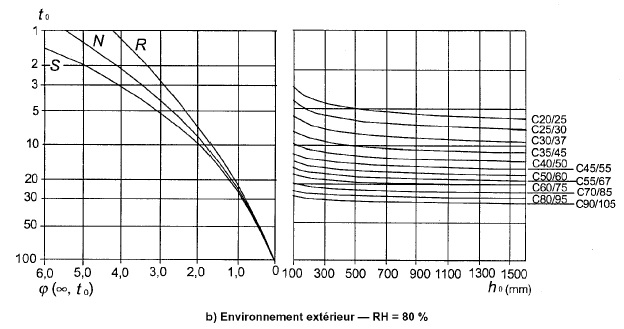
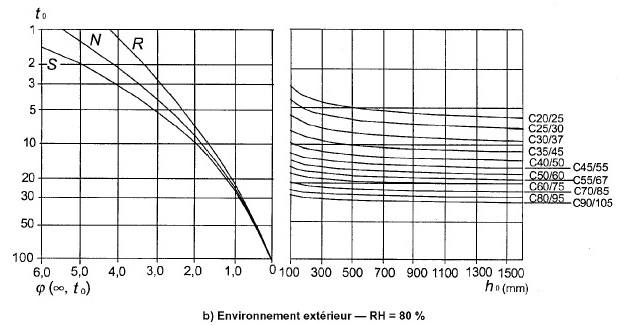
fix fluage tool bugs

diff --git a/src/app/fluage-tool-fluage-coeff/fluage-tool-fluage-coeff.component.ts b/src/app/fluage-tool-fluage-coeff/fluage-tool-fluage-coeff.component.ts
@@ -27,6 +27,7 @@ export class FluageToolFluageCoeffComponent implements OnInit, AfterViewInit {
   h0Positions!: number[];
   isMouseDown!: boolean;
   containerLeftPosition!: number;
+  cementLineLeft!: number;
   cementLineRotation!: number;
   cementLineLength!: number;
   concreteIndicatorPositions!: any;
@@ -48,37 +49,57 @@ export class FluageToolFluageCoeffComponent implements OnInit, AfterViewInit {
   ngOnInit(): void {
     this.projectName = this.fluageService.projectName;
     this.step = 0;
-    this.stepNames = ['Age de mise en charge','Classe de ciment','Rayon de ','Classe de béton','Coefficient de fluage'];
+    this.stepNames = ['Age de mise en charge','Classe de ciment','Rayon moyen','Classe de béton','Coefficient de fluage'];
     this.humidity = this.fluageService.properties.humidity;
     this.loadTime = this.fluageService.properties.loadTime;
     this.concreteClass = this.fluageService.properties.concreteClass;
     this.cementClass = this.fluageService.properties.cementClass;
-    this.loadTimePositions = [23,59,80,105,140,176,196,222,255];
+    if(this.humidity === 'inside') {
+      this.loadTimePositions = [23,59,80,105,140,176,196,222,255];
+      this.cementLineLeft = 265;
+      this.h0Positions = [295,328,363,397,432,467,502,537];
+      this.concreteIndicatorPositions = {
+        '20': [102,45],
+        '25': [115,45],
+        '30': [127,45],
+        '35': [139,45],
+        '40': [149,45],
+        '45': [158,45],
+        '50': [167,45],
+        '55': [171,5],
+        '60': [178,45],
+        '70': [184,5],
+        '80': [191,45],
+        '90': [196,5]
+      };
+    } else {
+      this.loadTimePositions = [28,63,83,109,142,177,196,224,257];
+      this.cementLineLeft = 269;
+      this.h0Positions = [290,320,350,381,412,442,474,505];
+      this.concreteIndicatorPositions = {
+        '20': [110,54],
+        '25': [121,54],
+        '30': [132,54],
+        '35': [144,54],
+        '40': [155,45],
+        '45': [160,9],
+        '50': [167,54],
+        '55': [172,9],
+        '60': [179,54],
+        '70': [183,9],
+        '80': [191,54],
+        '90': [195,8]
+    };
+  };
     this.loadTimeLinePosition = this.setLoadTimeLinePosition();
     this.isMouseDown = false;
     this.cementLineRotation = 0;
     this.h0LinePosition =0;
-    this.h0Positions = [295,328,363,397,432,467,502];
-    this.concreteIndicatorPositions = {
-      '20': [102,45],
-      '25': [115,45],
-      '30': [127,45],
-      '35': [139,45],
-      '40': [149,45],
-      '45': [158,45],
-      '50': [167,45],
-      '55': [171,5],
-      '60': [178,45],
-      '70': [184,5],
-      '80': [191,45],
-      '90': [196,5]
-    };
     this.concreteIndicatorPosition = [0,0];
     this.concreteLinePosition = this.concreteIndicatorPositions[this.concreteClass][0];
     this.fluageLinePosition = [265,0];
     this.fluageLineLength = 0;
     this.fluageCoeff = 0;
-    console.log(this.fluageService)
   }
 
   ngAfterViewInit(): void {

diff --git a/src/app/fluage-tool-fluage-coeff/fluage-tool-fluage-coeff.component.html b/src/app/fluage-tool-fluage-coeff/fluage-tool-fluage-coeff.component.html
@@ -14,14 +14,20 @@
   </button>
 </p>
 <div *ngIf="step === 2" class="calculation-container">
-  <p>A<span class="indice">c</span> = {{ Ac | number : "1.0-0" }} mm²</p>
-  <p>u<span class="indice">c</span> = {{ uc | number : "1.0-0" }} mm</p>
   <p>
-    h<span class="indice">0</span> = 2 x A<span class="indice">c</span> / u<span
+    A<span class="indice">c</span> = Aire de la section transversale :
+    {{ Ac | number : "1.0-0" }} mm²
+  </p>
+  <p>
+    u<span class="indice">c</span> = Périmètre de la partie exposée à la
+    dessiccation : {{ uc | number : "1.0-0" }} mm
+  </p>
+  <p>
+    Rayon moyen de l'élément : h<span class="indice">0</span> = 2 x A<span
       class="indice"
       >c</span
     >
-    = {{ h0 | number : "1.0-0" }} mm
+    / u<span class="indice">c</span> = {{ h0 | number : "1.0-0" }} mm
   </p>
 </div>
 <div class="main-content fluage-tool">
@@ -70,6 +76,7 @@
       *ngIf="step > 0"
       class="line line--cement"
       [ngStyle]="{
+        left: cementLineLeft + 'px',
         transform:
           'rotate(' +
           cementLineRotation +
@@ -101,7 +108,11 @@
         height: fluageLineLength + 'px'
       }"
     >
-      <span class="line_head">&#11206;</span>
+      <span
+        class="line_head"
+        [ngStyle]="{ bottom: 0, transform: 'translateX(-50%)' }"
+        >&#11206;</span
+      >
       <span class="line_result">{{ fluageCoeff | number : "1.0-3" }}</span>
     </div>
     <button

diff --git a/src/app/fluage-tool-properties/fluage-tool-properties.component.ts b/src/app/fluage-tool-properties/fluage-tool-properties.component.ts
@@ -31,15 +31,14 @@ export class FluageToolPropertiesComponent implements OnInit {
     this.isFormValid = false;
     this.fluageForm = this.formBuilder.group({humidity: [null], concreteClass: [null], loadTime: [null], cementClass: [null], smallHeight: [null], bigHeight: [null], width: [null]});
     this.selectedBeamSides = [];
+    this.areFieldsCompleted = false;
     this.updateFluageForm$ = this.fluageForm.valueChanges.pipe(
       map(values => {
-        if(this.selectedBeamSides.length > 0) {
           this.areFieldsCompleted = true;
           for(let prop in values){
              if(values[prop] === null)
               this.areFieldsCompleted = false
           };
-        };
         if(this.areFieldsCompleted && this.selectedBeamSides.length > 0) {
           this.isFormValid = true;
         } else {
@@ -56,11 +55,13 @@ export class FluageToolPropertiesComponent implements OnInit {
     } else {
       this.selectedBeamSides.push(side);
     };
+    console.log(this.areFieldsCompleted,this.selectedBeamSides,this.isFormValid)
     if(this.areFieldsCompleted === true && this.selectedBeamSides.length > 0) {
       this.isFormValid = true;
     } else {
       this.isFormValid = false;
     };
+    console.log(this.isFormValid)
   }
 
   submitForm(): void {

diff --git a/src/app/fluage-tool-equiv-coeffs/fluage-tool-equiv-coeffs.component.html b/src/app/fluage-tool-equiv-coeffs/fluage-tool-equiv-coeffs.component.html
@@ -22,12 +22,12 @@
     E<span class="indice">c,eff</span> = E<span class="indice">cm</span>(t<span
       class="indice"
       >0</span
-    >)/(1 + phi(infini,t<span class="indice">(0)</span>)) =
+    >)/(1 + φ(∞,t<span class="indice">(0)</span>)) =
     {{ Eceff | number : "1.0-0" }} MPa
   </p>
   <h2>Coefficients d'équivalence</h2>
   <p>
-    Pour le module d'élasticité effectif tangent du béton : alpha<span
+    Pour le module d'élasticité effectif tangent du béton : α<span
       class="indice"
       >e</span
     >
@@ -35,8 +35,8 @@
     {{ alphaEeff | number : "1.0-2" }}
   </p>
   <p>
-    Pour le module d'élasticité instantanée : alpha<span class="indice">e</span>
-    = E<span class="indice">s</span> / E<span class="indice">cm</span> =
+    Pour le module d'élasticité instantanée : α<span class="indice">e</span> =
+    E<span class="indice">s</span> / E<span class="indice">cm</span> =
     {{ alphaEm | number : "1.0-2" }}
   </p>
 </div>

diff --git a/src/app/fluage-tool-fluage-coeff/fluage-tool-fluage-coeff.component.scss b/src/app/fluage-tool-fluage-coeff/fluage-tool-fluage-coeff.component.scss
@@ -94,11 +94,10 @@
         width: 4px;
         background-color: red;
         & .line_head {
-            bottom: 0;
             top: inherit;
             font-size: 4rem;
             color: red;
-            transform: translate(-75%,-100%);
+            transform: translateX(2px);
         }
         & .line_result {
             display: block;

diff --git a/src/styles.scss b/src/styles.scss
@@ -160,3 +160,10 @@ fieldset {
         margin: 1rem 0;
     }
 }
+.main-content.fluage-tool {
+    & h2 {
+        font-size: 1.8rem;
+        margin: 1rem 0;
+        color: #268D75;
+    }
+}
